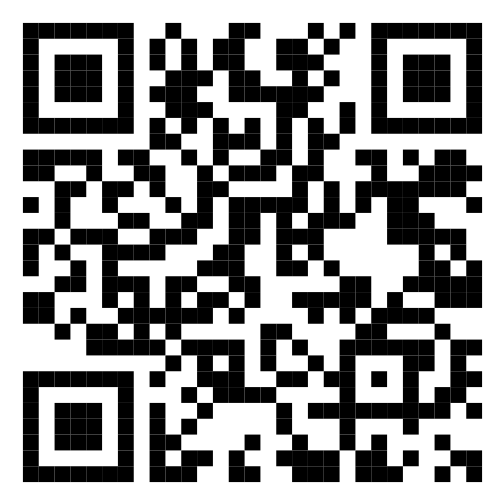
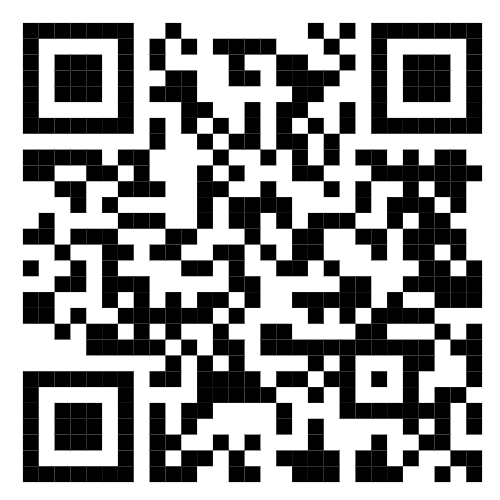
fix

diff --git a/src/components/App/MainBanner.js b/src/components/App/MainBanner.js
@@ -3,7 +3,7 @@ import * as React from "react"
 import bannerAppImg from "../../images/banner/gtelpay-banner.png"
 import video from "../../images/banner/banner_1.mp4"
 const MainBanner = () => {
-  const [domain, setDomain] = React.useState(window.location.hostname)
+  const [domain, setDomain] = React.useState('gtelpay.vn')
   const [imageQRCode, setImageQRCode] = React.useState()
   React.useEffect(() => {
     const loadQRCode = async () => {
